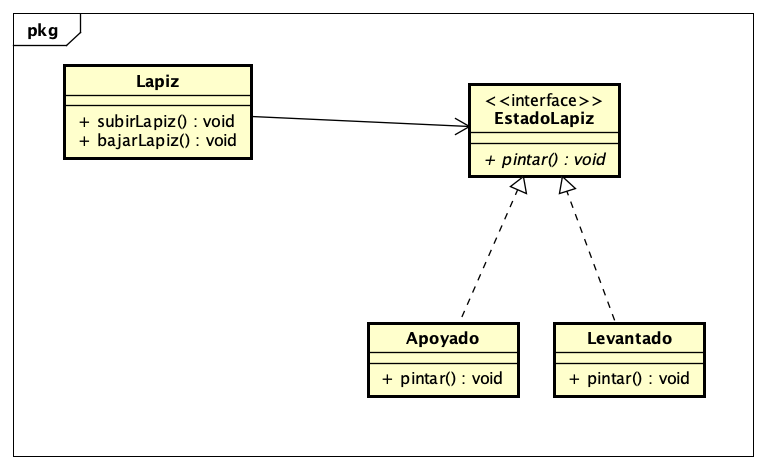
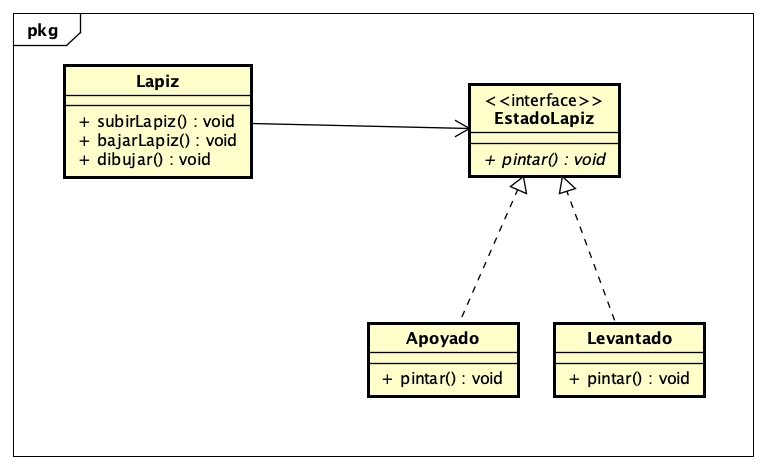
chore: método agregado a Lapiz para que sepa dibujar. Diagrama actualizado y algunos comentarios fueron cambiados, para ser más descriptivo.

Changed region(s): [[0.0601, 0.3284, 0.3303, 0.3881], [0.3303, 0.2388, 0.6305, 0.2985]]

diff --git a/src/main/java/edu/fiuba/algo3/modelo/Lapiz.java b/src/main/java/edu/fiuba/algo3/modelo/Lapiz.java
@@ -1,8 +1,11 @@
 package edu.fiuba.algo3.modelo;
 
 public class Lapiz {
-     private EstadoLapiz estado;
+    private EstadoLapiz estado;
 
+    public void dibujar(){
+        estado.pintar();
+    }
     public void subirLapiz(){
          estado = new Levantado();
     }

diff --git a/src/main/java/edu/fiuba/algo3/modelo/Levantado.java b/src/main/java/edu/fiuba/algo3/modelo/Levantado.java
@@ -1,5 +1,5 @@
 package edu.fiuba.algo3.modelo;
 
 public class Levantado implements EstadoLapiz {
-    public void pintar(){ } //falta implementar, dah
+    public void pintar() { } //para implementar cuando tengamos detalles de la interfaz grafica
 }

diff --git a/src/main/java/edu/fiuba/algo3/modelo/Apoyado.java b/src/main/java/edu/fiuba/algo3/modelo/Apoyado.java
@@ -1,5 +1,5 @@
 package edu.fiuba.algo3.modelo;
 
 public class Apoyado implements EstadoLapiz {
-   public void pintar() { } //falta implementar, dah
+   public void pintar() { } //para implementar cuando tengamos detalles de la interfaz grafica
 }
